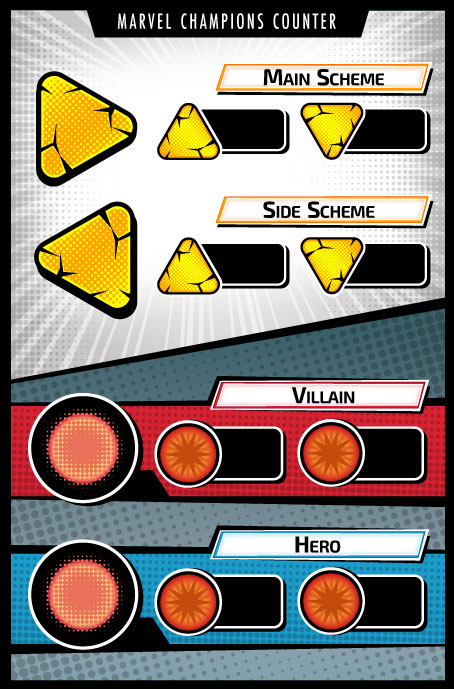
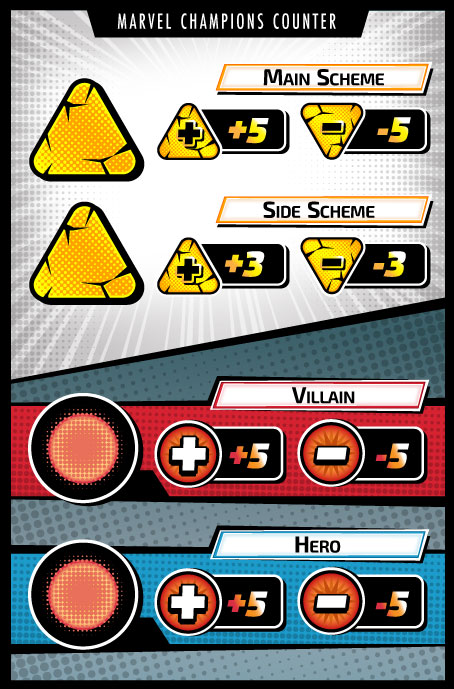
many
many

diff --git a/index.html b/index.html
@@ -40,29 +40,28 @@
 	<div id="shielder" class="widther">
 		 	<span id="shieldDamage" class="damageCircle shieldColor">0</span>
 			<div id="buttonGroup">
-				<button id="shieldAdd" class="btn shieldClickColor">+</button>
-				<button id="shieldAdd5" class="btn shieldClickColor">+5</button>
+				<button id="shieldAdd" class="btn shieldClickColor"></button>
+				<button id="shieldAdd5" class="btn shieldClickColor"></button>
 				<span class="rightButtons">
-					<button id="shieldSubtract" class="btn shieldClickColor">-</button>
-					<button id="shieldSubtract5" class="btn shieldClickColor">-5</button>
+					<button id="shieldSubtract" class="btn shieldClickColor"></button>
+					<button id="shieldSubtract5" class="btn shieldClickColor"></button>
 				</span>
 			</div>
 		</div>
 	<div id="sideScheme" class="widther">
 		 	<span id="sSchemeDamage" class="damageCircle sSchemeColor">0</span>
 			<div id="buttonGroup">
-				<button id="sSchemeAdd" class="btn sSchemeClickColor">+</button>
-				<button id="sSchemeAdd5" class="btn sSchemeClickColor">+5</button>
+				<button id="sSchemeAdd" class="btn sSchemeClickColor"></button>
+				<button id="sSchemeAdd5" class="btn sSchemeClickColor"></button>
 				<span class="rightButtons">
-					<button id="sSchemeSubtract" class="btn sSchemeClickColor">-</button>
-					<button id="sSchemeSubtract5" class="btn sSchemeClickColor">-5</button>
+					<button id="sSchemeSubtract" class="btn sSchemeClickColor"></button>
+					<button id="sSchemeSubtract5" class="btn sSchemeClickColor"></button>
 				</span>
 			</div>
 
 		</div>
 	<div class="divider"></div>
 	<div id="villainer" class="widther">
-		<p>Villain</p>
 			<div class="resultsFloat">
 				<span id="villainDamage" class="damageCircle villainColor">0</span>
 				<SPAN class="resultTotal">:</SPAN>
@@ -74,7 +73,6 @@
 		  <button id="villainSubtract5" class="btn villainClickColor">-5</button>
 		</div>
 	<div id="heroer" class="widther">
-		 <p>Hero</p>
 			<span id="heroDamage" class="damageCircle heroColor">0</span>
 			<button id="heroAdd" class="btn heroClickColor">+</button>
 			<button id="heroAdd5" class="btn heroClickColor">+5</button>

diff --git a/style.css b/style.css
@@ -177,13 +177,10 @@ body{
 
 #shieldAdd5.btn:active, #shieldAdd5.btn:hover, #shieldSubtract5.btn:active, #shieldSubtract5.btn:hover, #sSchemeAdd5.btn:active, #sSchemeAdd5.btn:hover, #sSchemeSubtract5.btn:active, #sSchemeSubtract5.btn:hover{
 	font-size: 20px;
-	background: -webkit-linear-gradient(#fff, yellow);
-	-webkit-background-clip: text;
-	-webkit-text-fill-color: transparent;
-	-webkit-text-stroke: 0px black;
 	filter: drop-shadow(2px 2px #000);	
 	font-weight:bold;
 	font-style:italic;
+	color:yellow;
 }
 
 .btn:active.modifyClickColor, .btn:hover.modifyClickColor{
@@ -303,8 +300,8 @@ body{
 
 .damageCircle{
 	float:left;
-	/*background-color:#000;*/
-	border:1px solid pink;
+	/*background-color:#000;
+	border:1px solid pink;*/
 	min-width: 102px;
     height: 45px;
 	display:inline-block !important;

diff --git a/script.js b/script.js
@@ -68,7 +68,7 @@
 	   }
 	}
 	document.getElementById("sSchemeAdd5").onclick=function(){
-		countS=countS+5;
+		countS=countS+3;
 		document.getElementById("sSchemeDamage").innerHTML=countS;
 	  	  if (countS > 0 ){
 			count=Math.max(0, count-1);
@@ -88,7 +88,7 @@
 		}
 	}
 	document.getElementById("sSchemeSubtract5").onclick=function(){
-		countS=Math.max(0, countS-5)
+		countS=Math.max(0, countS-3)
 		document.getElementById("sSchemeDamage").innerHTML=countS;
 	  
 	  if (countS >= 0){
